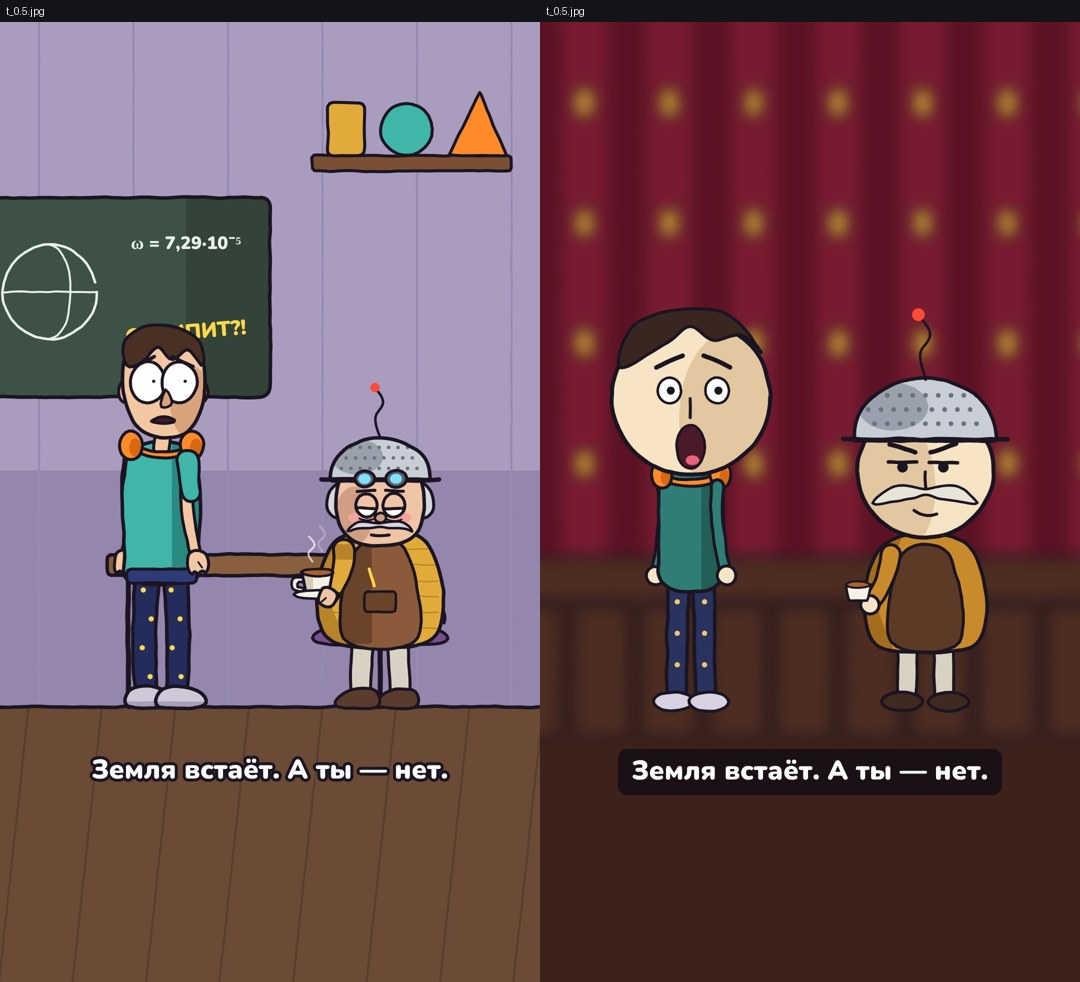
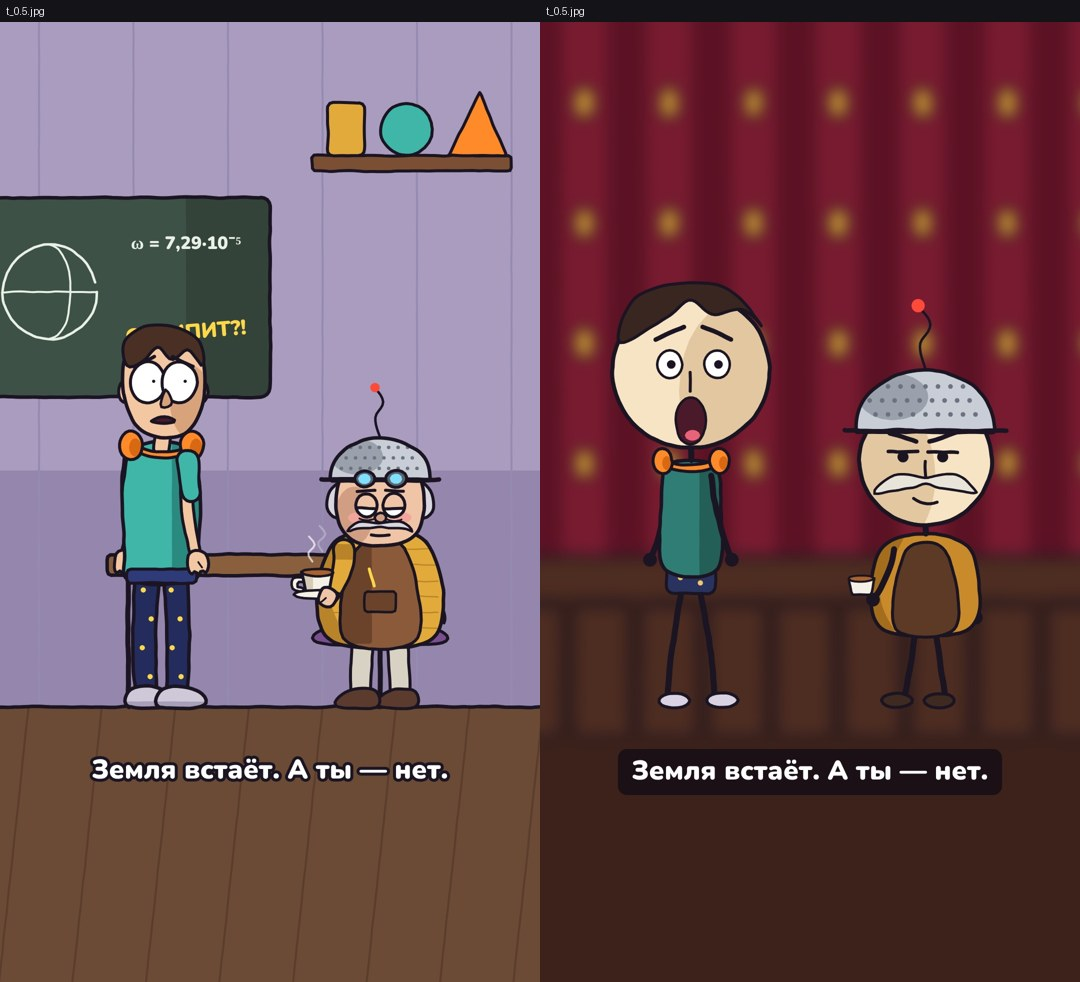
roundhead-test: coloured stickman bodies (round 1 of notes)
Claude-Session: https://claude.ai/code/session_01D3cdzUpht2YxPs51PvcRip

Changed region(s): [[0.55, 0.2749, 0.7333, 0.7332], [0.7639, 0.3666, 0.9472, 0.7332], [0.825, 0.3055, 0.8556, 0.336]]

diff --git a/roundhead-test/round.js b/roundhead-test/round.js
@@ -32,45 +32,57 @@ export function roundHead(R, mood, { look = [0, 0], o = 0, nose = true } = {}) {
   if (nose) stroke([[0, R * .02], [0, R * .26]], 6);
 }
 
-// —— ТЫ, round: the same costume ideas (orange headphones, starry pyjamas), drawn on the round-head body ——
+// —— stick limbs: one ink line from root to tip (a soft bend), a small round hand or a flat shoe ——
+function limb(a, b, bend = 0, w = 12) { const dx = b[0] - a[0], dy = b[1] - a[1], L = Math.hypot(dx, dy) || 1; stroke(quad(a, [(a[0] + b[0]) / 2 - dy / L * bend, (a[1] + b[1]) / 2 + dx / L * bend], b, 14), w); }
+const handDot = (p) => dot(p[0], p[1], 13);
+const shoe = (p, col) => shape(ell(p[0] + 14, p[1] - 6, 30, 14, 18), { fill: col, lw: 6 });
+
+// —— ТЫ, coloured stickman: a big round head, a teal T-shirt block, orange headphones, starry pyjama shorts, stick limbs ——
 export function rTim(P) {
   const f = P.face ?? 1, mood = P.mood || 'deadpan', ner = P.nerv ?? 0;
   const jit = ner ? (hash(Math.floor((P.t || 0) * 12) * 3.3) - .5) * 8 * ner : 0;
   push(); translate(P.x + jit, P.y); scale((P.s ?? 1) * f, (P.s ?? 1) * (P.sq ?? 1)); rotate(P.spin || 0);
-  for (const sx of [-1, 1]) { const lg = (sx < 0 ? P.legL : P.legR) || [0, 0];
-    shape(noodle([sx * 24, -230], [sx * 28 + lg[0], -22 + lg[1]], 0, 40, 36), { fill: RP.pj, lw: 7, shade: () => { for (let k = 0; k < 3; k++) dot(sx * 26 + lg[0] * (k + .5) / 3, -200 + k * 60, 5, RP.star); } });
-    shape(ell(sx * 34 + lg[0], -10 + lg[1], 38, 18, 20), { fill: '#d8d2e2', lw: 6 }); }
+  const hip = [0, -250], legL = P.legL || [0, 0], legR = P.legR || [0, 0];
+  for (const [sx, lg] of [[-1, legL], [1, legR]]) { const ft = [sx * 46 + lg[0], -6 + lg[1]]; limb([sx * 14, -240], ft, sx * -8); shoe(ft, '#d8d2e2'); }
   push(); rotate(P.lean ?? 0);
-  const arm = (sh, a) => { const hp = [sh[0] + a.h[0], sh[1] + a.h[1]]; shape(noodle(sh, hp, a.bend ?? 0, 24, 20), { fill: RP.tee, lw: 6 }); shape(ell(hp[0], hp[1], 18, 18, 16), { fill: RP.face, lw: 6 }); };
-  arm([-50, -420], P.armL || { h: [-18, 170], bend: -14 });
-  shape(rr(-62, -450, 124, 230, 40), { fill: RP.tee, lw: 7, shade: () => fillOnly(rect(20, -460, 70, 250), RP.teeS, { boil: .3 }) });
-  shape(arc(0, -444, 58, 24, 0, Math.PI, 20).concat(arc(0, -444, 42, 12, Math.PI, 0, 20)), { fill: RP.phone, lw: 6 });
-  for (const sx of [-1, 1]) shape(ell(sx * 56, -442, 20, 26, 16), { fill: RP.phone, lw: 6, shade: () => fillOnly(ell(sx * 56 + 8, -438, 10, 16, 12), RP.phoneS, { boil: .3 }) });
-  push(); translate(0, -590); rotate(P.headTilt ?? 0); scale(1.4); roundHead(108, mood, { look: P.look, o: P.o });
-  shape(spline([[-96, -40], [-80, -96], [-20, -118], [50, -112], [96, -60], [70, -84], [30, -78], [0, -96], [-30, -76]]), { fill: '#3a2620', lw: 6 });   // a hair cap
-  smallMouth(0, 56, mood, P.o || 0); pop();
-  arm([50, -420], P.armR || { h: [18, 170], bend: 14 });
+  shape(rr(-46, -270, 92, 54, 14), { fill: RP.pj, lw: 6, shade: () => { dot(-20, -246, 5, RP.star); dot(18, -236, 5, RP.star); } });   // starry shorts
+  const shL = [-38, -440], shR = [38, -440], aL = P.armL || { h: [-40, 160], bend: -12 }, aR = P.armR || { h: [40, 160], bend: 12 };
+  const armL = () => { const hp = [shL[0] + aL.h[0], shL[1] + aL.h[1]]; limb(shL, hp, aL.bend); handDot(hp); };
+  const armR = () => { const hp = [shR[0] + aR.h[0], shR[1] + aR.h[1]]; limb(shR, hp, aR.bend); handDot(hp); };
+  armL();
+  shape(spline([[-44, -460], [44, -460], [56, -380], [50, -262], [-50, -262], [-56, -380]]), { fill: RP.tee, lw: 7, shade: () => fillOnly(rect(16, -470, 60, 220), RP.teeS, { boil: .3 }) });
+  stroke([[0, -470], [0, -500]], 12);                                                                              // stick neck
+  shape(arc(0, -470, 56, 22, 0, Math.PI, 20).concat(arc(0, -470, 40, 10, Math.PI, 0, 20)), { fill: RP.phone, lw: 6 });
+  for (const sx of [-1, 1]) shape(ell(sx * 54, -468, 19, 24, 16), { fill: RP.phone, lw: 6, shade: () => fillOnly(ell(sx * 54 + 8, -464, 9, 14, 12), RP.phoneS, { boil: .3 }) });
+  push(); translate(0, -640); rotate(P.headTilt ?? 0); scale(1.5); roundHead(100, mood, { look: P.look, o: P.o });
+  shape(spline([[-90, -36], [-74, -90], [-20, -110], [46, -104], [90, -56], [66, -78], [28, -72], [0, -90], [-28, -70]]), { fill: '#3a2620', lw: 6 });
+  smallMouth(0, 52, mood, P.o || 0); pop();
+  armR();
   pop(); pop();
 }
-// —— Зиновий Маркович, round: colander helmet, walrus moustache, cardigan and apron ——
+// —— Зиновий Маркович, coloured stickman: a big round head with a walrus moustache and a colander, a round mustard cardigan with an apron, stick limbs ——
 export function rZin(P) {
   const f = P.face ?? 1, mood = P.mood || 'deadpan';
   push(); translate(P.x, P.y); scale((P.s ?? 1) * f, P.s ?? 1);
-  for (const sx of [-1, 1]) { shape(noodle([sx * 34, -120], [sx * 36, -20], 0, 38, 36), { fill: '#d8d2c4', lw: 6 }); shape(ell(sx * 44, -10, 40, 18, 18), { fill: '#3e2a20', lw: 6 }); }
-  const arm = (sh, a, cup) => { const hp = [sh[0] + a.h[0], sh[1] + a.h[1]]; shape(noodle(sh, hp, a.bend ?? 0, 36, 30), { fill: RP.cardi, lw: 6 }); shape(ell(hp[0], hp[1], 17, 17, 16), { fill: RP.face, lw: 6 });
-    if (cup) { push(); translate(hp[0] + 22, hp[1] - 14); shape([[-24, -24], [24, -24], [18, 6], [-18, 6]], { fill: '#f6f1e6', lw: 5 }); shape(ell(0, -24, 24, 6, 16), { fill: '#a8622c', lw: 4 }); pop(); } };
-  arm([-70, -290], P.armL || { h: [-26, 110], bend: -12 });
-  shape(spline([[0, -330], [84, -304], [116, -210], [96, -120], [0, -104], [-96, -120], [-116, -210], [-84, -304]]), { fill: RP.cardi, lw: 7, shade: () => fillOnly(spline([[40, -340], [120, -290], [136, -190], [104, -100], [60, -100], [92, -210]]), RP.cardiS, { boil: .4 }) });
-  shape(spline([[-44, -290], [44, -290], [66, -124], [-66, -124]]), { fill: RP.apron, lw: 6 });
-  push(); translate(0, -450); rotate(P.headTilt ?? 0); scale(1.35);
-  roundHead(96, mood, { look: P.look, o: P.o });
-  shape(spline([[-4, 26], [-44, 22], [-74, 46], [-50, 44], [-20, 40], [0, 34], [20, 40], [50, 44], [74, 46], [44, 22], [4, 26]]), { fill: RP.moust, lw: 5 });
-  smallMouth(0, 62, mood === 'smug' ? 'smug' : mood, P.o || 0);
-  shape([...arc(0, -50, 100, 80, Math.PI, TAU, 30), [100, -42], [-100, -42]], { fill: RP.colander, lw: 7, shade: () => { fillOnly(ell(46, -90, 50, 34, 20), RP.colanderS, { boil: .3 }); for (let i = 0; i < 9; i++) for (let j = 0; j < 3; j++) dot(-72 + i * 18 + (j % 2) * 9, -66 - j * 20, 3.4, '#6b7280'); } });
-  stroke([[-116, -44], [116, -44]], 9); stroke(spline([[0, -128], [8, -164], [-6, -192], [10, -218]], false), 5); dot(10, -220, 9, '#ff4a3a');
+  for (const sx of [-1, 1]) { const ft = [sx * 40, -6]; limb([sx * 18, -150], ft, 0); shoe(ft, '#3e2a20'); }
+  push(); rotate(P.lean ?? 0);
+  const shL = [-60, -300], shR = [60, -300], aL = P.armL || { h: [-36, 130], bend: -10 }, aR = P.armR || { h: [36, 120], bend: 10 };
+  const armL = () => { const hp = [shL[0] + aL.h[0], shL[1] + aL.h[1]]; limb(shL, hp, aL.bend); handDot(hp); };
+  const armR = () => { const hp = [shR[0] + aR.h[0], shR[1] + aR.h[1]]; limb(shR, hp, aR.bend); handDot(hp);
+    if (P.cup) { push(); translate(hp[0] + 22, hp[1] - 16); shape([[-24, -24], [24, -24], [18, 6], [-18, 6]], { fill: '#f6f1e6', lw: 5 }); shape(ell(0, -24, 24, 6, 16), { fill: '#a8622c', lw: 4 }); pop(); } };
+  armL();
+  shape(spline([[0, -330], [80, -306], [104, -220], [86, -150], [0, -134], [-86, -150], [-104, -220], [-80, -306]]), { fill: RP.cardi, lw: 7, shade: () => fillOnly(spline([[36, -340], [110, -290], [124, -200], [96, -130], [56, -130], [86, -220]]), RP.cardiS, { boil: .4 }) });
+  shape(spline([[-38, -296], [38, -296], [58, -150], [-58, -150]]), { fill: RP.apron, lw: 6 });
+  stroke([[0, -330], [0, -360]], 12);
+  push(); translate(0, -470); rotate(P.headTilt ?? 0); scale(1.4);
+  roundHead(90, mood, { look: P.look, o: P.o });
+  shape(spline([[-4, 24], [-42, 20], [-70, 44], [-48, 42], [-18, 38], [0, 32], [18, 38], [48, 42], [70, 44], [42, 20], [4, 24]]), { fill: RP.moust, lw: 5 });
+  smallMouth(0, 58, mood, P.o || 0);
+  shape([...arc(0, -46, 94, 76, Math.PI, TAU, 30), [94, -38], [-94, -38]], { fill: RP.colander, lw: 7, shade: () => { fillOnly(ell(44, -86, 48, 32, 20), RP.colanderS, { boil: .3 }); for (let i = 0; i < 9; i++) for (let j = 0; j < 3; j++) dot(-68 + i * 17 + (j % 2) * 8, -62 - j * 19, 3.2, '#6b7280'); } });
+  stroke([[-110, -40], [110, -40]], 9); stroke(spline([[0, -122], [8, -156], [-6, -184], [10, -208]], false), 5); dot(10, -210, 9, '#ff4a3a');
   pop();
-  arm([66, -290], P.armR || { h: [36, 104], bend: 14 }, P.cup);
-  pop();
+  armR();
+  pop(); pop();
 }
 
 // —— a set in the new palette: cherry curtains with gold ovals, a wooden counter (drawn into the back layer, then blurred) ——

diff --git a/roundhead-test/style/STYLE.md b/roundhead-test/style/STYLE.md
@@ -8,7 +8,7 @@ Default size: 1080×1920.
 
 ## 1. Essence, and what it is not
 
-Hand-drawn-looking 2D TV animation for adults: **uniform thick dark outlines that boil**, **flat fills with hard-edged shadow shapes (no gradients)**, **round cream heads with small dot eyes under heavy straight lids** (big white eyes only for panic and shock), **small elastic mouths**, grotesque-but-cute creatures, and sci-fi hardware treated like household junk. The comedy is **dialogue-driven**: improvised-feeling talk, interruptions, awkward pauses, reaction shots, escalation, and a last-second reversal. The genre's engine is **a tiny, mundane goal pursued with absurdly large sci-fi means**: whoever could solve anything uses it for something petty, and someone else pays the emotional price.
+Hand-drawn-looking 2D TV animation for adults: **uniform thick dark outlines that boil**, **flat fills with hard-edged shadow shapes (no gradients)**, **coloured stickmen: big round cream heads with small dot eyes under heavy straight lids, single-line limbs, colour in simple garment blocks** (big white eyes only for panic and shock), **small elastic mouths**, grotesque-but-cute creatures, and sci-fi hardware treated like household junk. The comedy is **dialogue-driven**: improvised-feeling talk, interruptions, awkward pauses, reaction shots, escalation, and a last-second reversal. The genre's engine is **a tiny, mundane goal pursued with absurdly large sci-fi means**: whoever could solve anything uses it for something petty, and someone else pays the emotional price.
 
 Not a kids' cartoon (dry humour, long pauses), not anime (no sparkly eyes), not a vector explainer (lines boil).
 
@@ -22,6 +22,7 @@ Not a kids' cartoon (dry humour, long pauses), not anime (no sparkly eyes), not 
 - **Line boil**: resample every outline in screen space (~7 px steps) and displace along the normal with low-frequency noise, amplitude ~1.7 px; cycle **3 boil drawings at 12 fps**. Everything boils, including held poses and backgrounds: a still frame is never dead.
 - **Fill**: flat colours only. Shadows are hard-edged darker shapes clipped inside the fill (one per form, away from the light). Glows are 1–2 flat translucent rings, not gradients. Skies are **flat colour bands**.
 - **Faces**: a near-perfect round head in warm cream (#f6e4c4) with one hard shadow shape, ~1.3–1.4× the base's head size; **small dark dot eyes under a heavy straight lid line** for every calm or deadpan beat; big white eyes with 5 px pupils only for panic and shock; a short nose line; thick short brows carry the emotion; small parametric mouths (a line, or an open oval with a tongue).
+- **Coloured stickman bodies**: limbs are single ink strokes (~12 px, a soft bend, round caps) ending in small solid round hands and flat oval shoes; a stick neck. Colour lives in simple garment blocks over the stick body (a T-shirt block, shorts, a round cardigan, an apron) and in one costume idea per character (headphones, a colander helmet).
 - **Depth blur**: sets are drawn into a back layer and laid in **blurred (~14 px at 1080 wide) with an 18 % dark veil**; characters, props they touch and type stay sharp. Never blur a character.
 - **Cast design**: silhouettes must read in solid black. Give each lead one absurd costume idea. Avoid white lab coat + spiky hair.
 - **Creatures**: every world may get one creature that is disgusting *and* adorable; keep it non-verbal (sound effects) so the film stays a dialogue between the leads. Check that anything behind furniture still shows face and upper body.

diff --git a/roundhead-test/style/CHANGES.md b/roundhead-test/style/CHANGES.md
@@ -7,3 +7,4 @@
 | §3 Colour | one palette per world, any hue | channel ground: cherry, navy, gold behind cream faces; worlds stay deep and saturated | cream heads pop on dark warm grounds |
 | §4 Subtitles | white with 11 px black outline, speaker pill | white on a dark translucent plate, Nunito 900 (Cyrillic), y ≈ 1500 | the reference's caption look; readable over any set; clear of the Shorts UI |
 | §8 Native move | — | Face slam: hard push-in to one round face on an extra-blurred set | the channel's signature beat |
+| §2 Bodies | noodle limbs with flat fills, drawn hands | coloured stickmen: single-line ink limbs, round dot hands, flat shoes; colour only in garment blocks and costume ideas | user's note: «в стиле стикмен, только цветной» |
